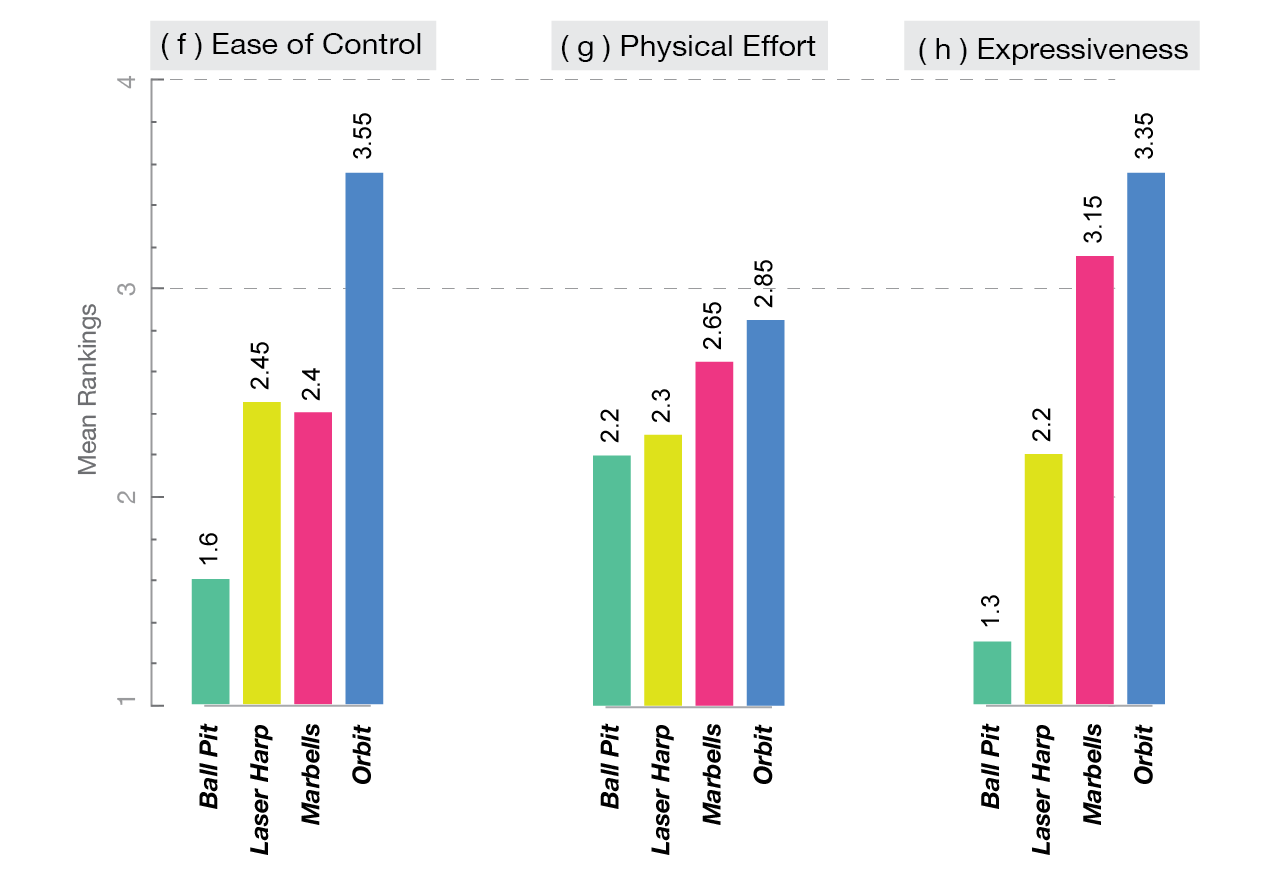
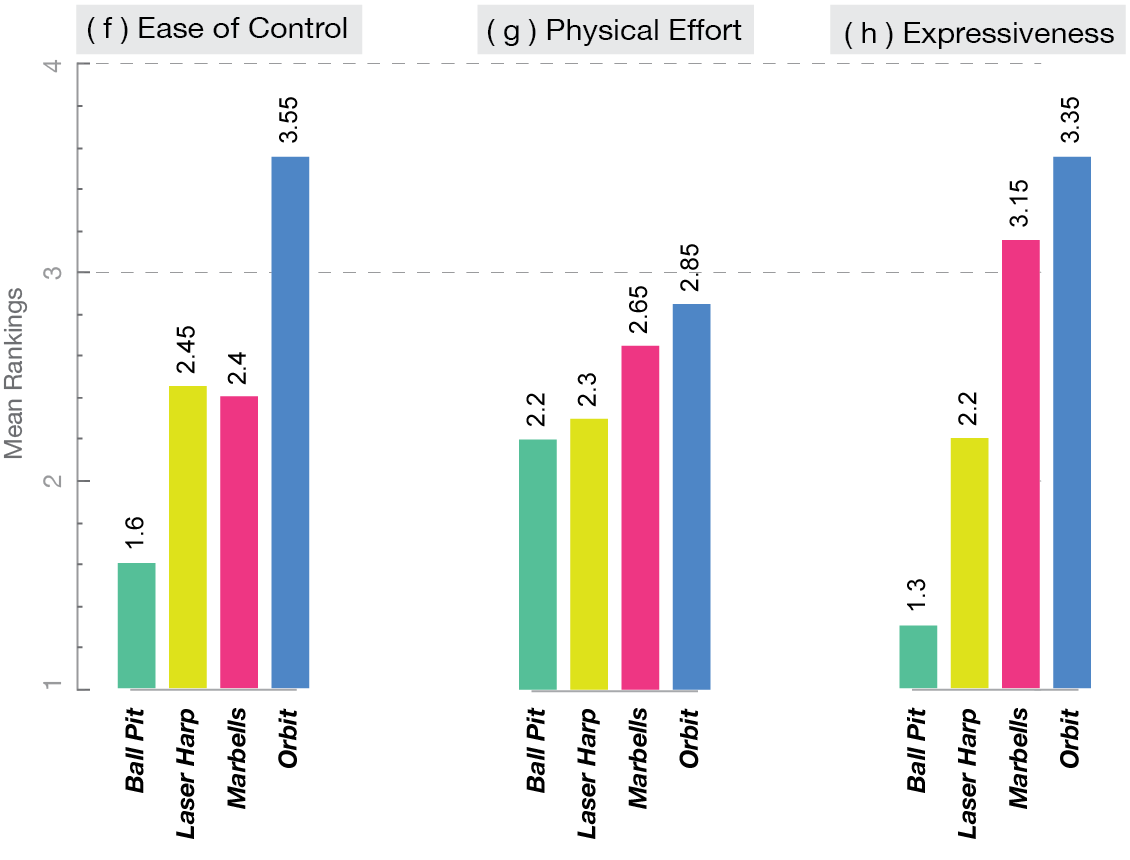
styling updates

diff --git a/index.html b/index.html
@@ -123,7 +123,7 @@
             tile, its octave is determined by the size of the ball (i.e.
             smaller balls produce higher-octave sounds).</p>
         </div>
-        
+
           <div id="iframe-wrapper">
               <iframe width="560" height="315" src="https://www.youtube.com/embed/hqhaVqTwE8A" frameborder="0" allow="accelerometer; autoplay; encrypted-media; gyroscope; picture-in-picture" allowfullscreen></iframe>
           </div>
@@ -147,7 +147,7 @@
             frequency of a low pass filter, allowing the user to alter
             the timbre of instrument.</p>
         </div>
-        
+
           <div id="iframe-wrapper">
               <iframe width="560" height="315" src="https://www.youtube.com/embed/V7B8zntXr54" frameborder="0" allow="accelerometer; autoplay; encrypted-media; gyroscope; picture-in-picture" allowfullscreen></iframe>
           </div>
@@ -179,11 +179,11 @@
             polyphonic and polyrhythmic structures.</p>
         </div>
 
-        
+
           <div id="iframe-wrapper">
             <iframe width="560" height="315" src="https://www.youtube.com/embed/3xJOf7kTbuk" frameborder="0" allow="accelerometer; autoplay; encrypted-media; gyroscope; picture-in-picture" allowfullscreen></iframe>
           </div>
-        
+
         <div id="orbit">
             <h3>ORBit</h3>
             <p>Designed for the Oculus Rift S, the ORBit encapsulates
@@ -275,44 +275,15 @@
             the exit survey can be seen in Figs. 2(f, g, h, i, j, k).</p>
         </div>
 
-        
-<!--
-        <div id="graph1">
-          <img src="images/a-b-c-d.png" width="637" height="468"/>
-        </div>
-        
-        <div id="graph1">
-          <img src="images/timegraph2.png" width="796" height="236"/>
-        </div>
-        
-        <div id="graph2">
-          <img src="images/f-g-h2.png" width="637" height="438"/>
-        </div>
-        
-        <div id="graph2">
-          <img src="images/i-j-k2.png" width="637" height="447"/>
-        </div>
--->
-        <div class="row">
-            <div class="column">
-              <img src="images/a-b-c-d.png" style="width:100%" />
-            </div>
+        <div id="images">
+            <div id="image"><img src="images/a-b-c-d.png" style="width: 70%; margin-top: 30px"></div>
 
-            <div class="column">
-              <img src="images/timegraph-fix.png" style="width:100%" />
-            </div>
-        </div>
-        
-        <div clas="row">
-            <div class="column">
-              <img src="images/f-g-h2.png" style="width:100%"/>
-            </div>
+            <div id="image"><img src="images/timegraph-fix.png" style="width: 70%; margin-top: 30px"></div>
 
-            <div class="column">
-              <img src="images/i-j-k2.png" style="width:100%"/>
-            </div>
-        </div>
+            <div id="image"><img src="images/f-g-h2.png" style="width: 70%; margin-top: 30px"></div>
 
+            <div id="image"><img src="images/i-j-k2.png" style="width: 70%; margin-top: 30px"></div>
+        </div>
 
 
         <div id="performancebehaviors">
@@ -320,11 +291,10 @@
             <p>In Ball Pit, some users spawned a limited number of balls and tried to
             maintain control over their movement. Conversely, others
             adopted an approach where they spawned an abundance of
-            balls and struck them randomly as the balls flew by.   
-            A transition
-            between these two behaviors was also observed: gradually
+            balls and struck them randomly as the balls flew by.
+            A transition between these two behaviors was also observed: gradually
             increasing the number of the balls, some users shifted their
-                involvement from that of an active performer to a passive observer.<br>
+            involvement from that of an active performer to a passive observer.<br>
 
            <p> With Laset Harp, Most users expressed
             wanting to perform preconceived musical ideas. Much like with real instruments, this approach
@@ -367,16 +337,16 @@
             how mental associations affect a user's approach to different
             VIMEs. After each performances, we asked users if
             they associated a VIME with an object, concept or previous
-            experience. 
+            experience.
 
-            8 users likened their experience with Ball Pit to playing
+            <p>8 users likened their experience with Ball Pit to playing
             a pitched percussion instrument due to the sound design
             of the system and the bodily interactions it prompts. 5
             users associated these interactions with sports games, such
             as racquetball and squash. This is reflected in Fig. 2(i)
             with the Ball Pit ranked as the most game-like VIME.
-    
-            12 users associated the Laser Harp with string instruments
+
+            <p>12 users associated the Laser Harp with string instruments
             such as the harp, violin and cello. Furthermore,
             Fig. 2(i) shows that the Laser Harp was ranked as the most
             instrument-like VIME. We believe this strong association
@@ -388,7 +358,7 @@
             a point of departure in our design, was used by 5 participants
             without our prompt.
 
-            Finally, ORBit was most commonly associated with music
+            <p>Finally, ORBit was most commonly associated with music
             production tools, digital audio workstations (DAWs) and
             MIDI. Furthermore, users made explicit references to concepts
             like chords, music theory and DJ tools when describing
@@ -410,7 +380,7 @@
             the assumption that greater differences imply further loss
             of tracked time.
 
-            Most users expressed that the behavior of virtual objects
+            <p>Most users expressed that the behavior of virtual objects
             conformed to their expectations from the VIMEs. Even
             when a system defied the rules of physics, the users were
             able to adjust to it as long as the behavior was consistent.</p>
@@ -429,7 +399,7 @@
             Figs. 2(f) and (h), and the users' evaluation of the extent
             to which they felt in control of individual VIMEs shown in (a).<br>
 
-            With VIMEs that were ranked as most instrument-like,
+            <p>With VIMEs that were ranked as most instrument-like,
             the users evaluated their performances to be mainly replicable.
             Conversely, the most game-like VIMES, namely Ball
             Pit and Marbells, were ranked relatively low in replicability
@@ -439,18 +409,18 @@
             control over these VIMEs versus influencing an ongoing
             emergent musical process.<br>
 
-            All VIMEs were ranked relatively high in terms of learnability.
+            <p>All VIMEs were ranked relatively high in terms of learnability.
             Moreover, learnability and intuitiveness rankings
             show strong agreement with the exception of the Marbells,
             which was rated highly learnable yet moderately intuitive.
             With this VIME, we observed most users to focus on the
             placement of the blocks in the scene, while making little use
-            of the tempo and pitch change functionality. On the other hand,  it was ranked relatively high in expressiveness;
-            which might
+            of the tempo and pitch change functionality. On the other hand,
+            it was ranked relatively high in expressiveness, which might
             have given the users a sense that they learned how to use it
             even though they did not exploit some of its functionality.<br>
-                
-            While the physical effort rankings seen in Fig. 2(g) did not
+
+            <p>While the physical effort rankings seen in Fig. 2(g) did not
             show significant agreement across users, these give some interesting
             insights with regards to how physical effort might
             be perceived in VR. ORBit required users to stand in one
@@ -488,8 +458,8 @@
             design, it can serve as a platform not only for creative expression
             in and of itself but also for prototyping NIME ideas
             prior to physical implementation.<br>
-            
-            Although the relationship between games and music has
+
+            <p>Although the relationship between games and music has
             been extensively studied [4], we believe the close collaboration
             between VR and gaming offers new opportunities for
             VIME design in terms of utilizing gamification in musical
@@ -506,9 +476,9 @@
             tiered control schemes that can support expressive
             behavior supplemented by more sophisticated interactions
             that enable extended functionality. <br>
-                
-            
-            In the near future, we hope to explore the effects of VIME
+
+
+            <p>In the near future, we hope to explore the effects of VIME
             design on performance in collaborative contexts. For instance,
             constructing a musical causality system in Marbells
             with multiple users can reveal new performance dynamics
@@ -608,7 +578,6 @@
             in virtual environments: A presence questionnaire.
             Presence, 7(3):225-240, 1998.</li><br>
             </ol>
-        </div> 
+        </div>
     </body>
 </html>
-    

diff --git a/style.css b/style.css
@@ -1,6 +1,8 @@
 body{
-  margin-left: 150px;
-  margin-right: 150px;
+  /* margin-left: 150px; */
+  /* margin-right: 150px; */
+  width: 70%;
+  margin: auto;
   font-family: 'Helvetica Neue';
 }
 
@@ -37,7 +39,7 @@ p{
     color: black;
     min-width: 200px;
     max-width: 1000px;
-    margin: 0px 10px;
+    margin: 0px 10px 12px;
 }
 
 ul {
@@ -64,7 +66,6 @@ li {
 }
 
 .refnum {
-
     float: left;
 }
 
@@ -79,16 +80,10 @@ li {
     padding-bottom: 10px;
 }
 
-/*for image displays*/
-.column {
-  float: left;
-  width: 45%;
-  padding-top: 20px;
-  padding-bottom: 10px;
+#images{
+  text-align: center;
 }
 
-.row::after {
-  content: "";
-  clear: both;
-  display: table;
+#image {
+
 }
